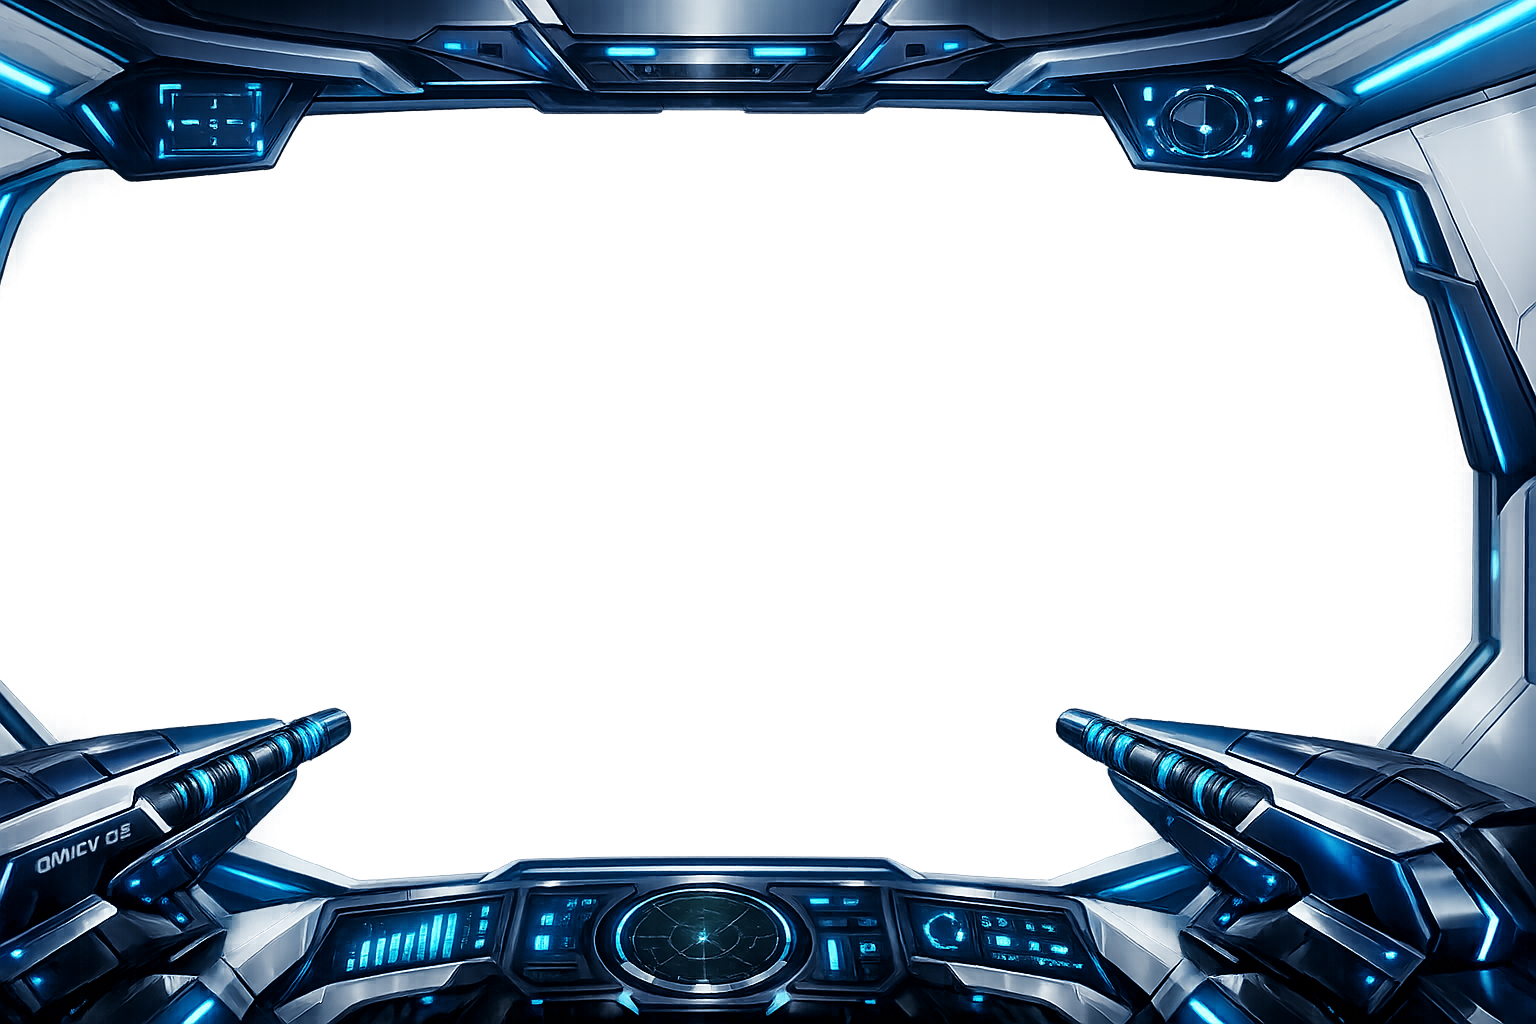
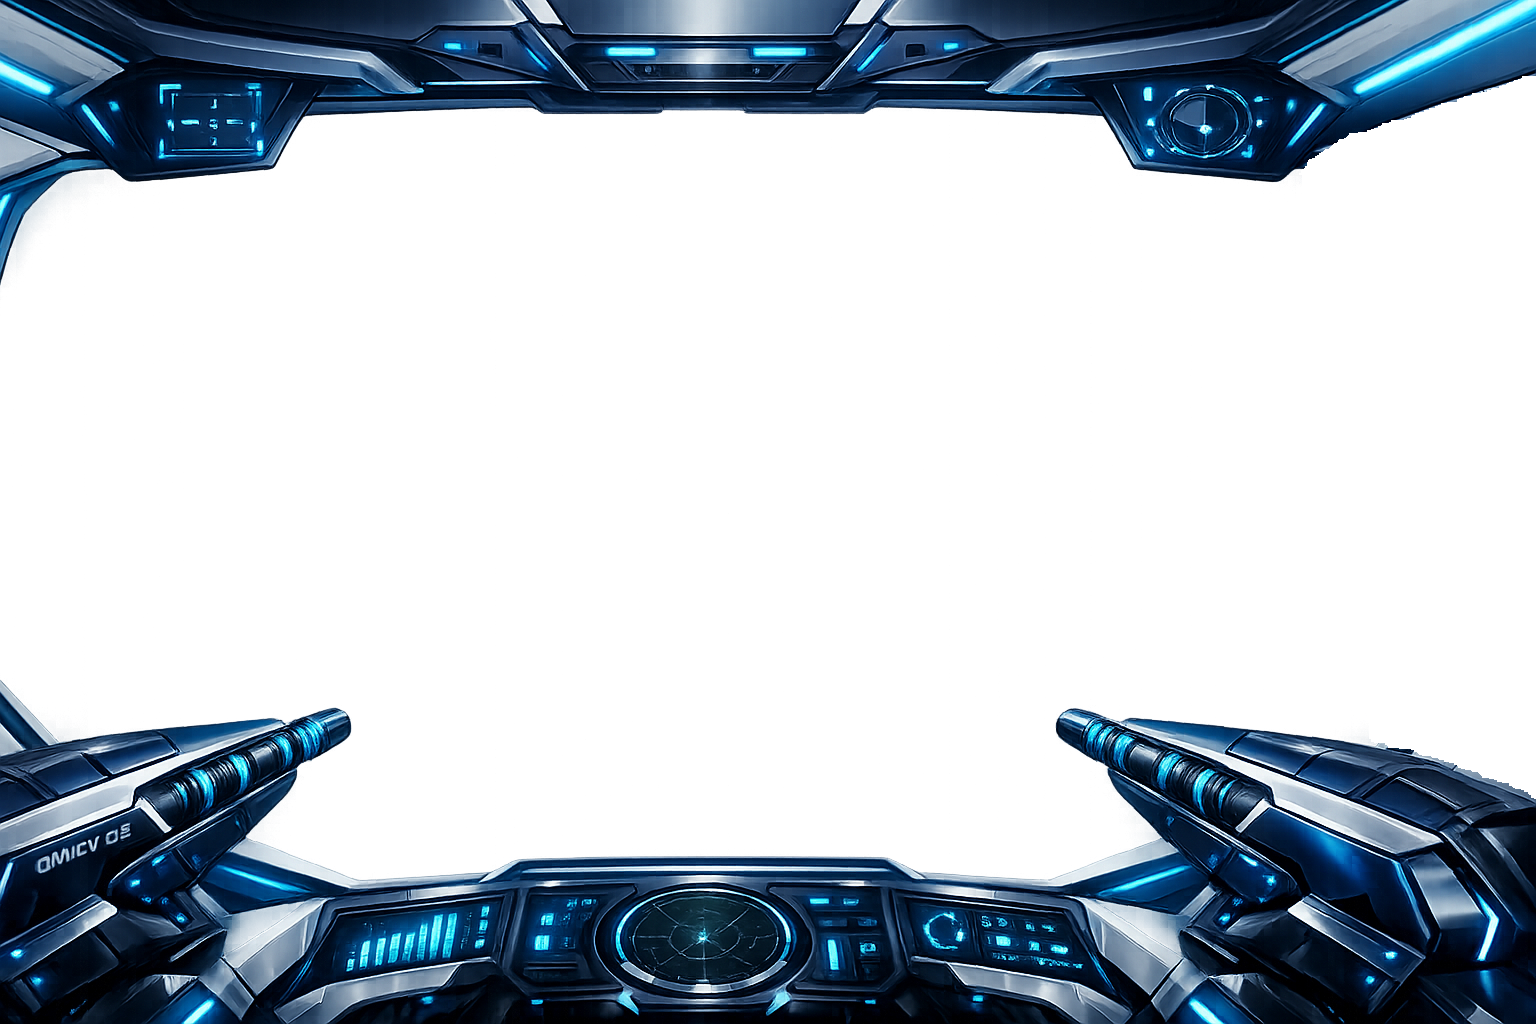
LSS
frames

Changed region(s): [[0.8438, 0.0625, 1.0, 0.7812]]

diff --git a/docs/LSS/last_ship_sailing.html b/docs/LSS/last_ship_sailing.html
@@ -6022,40 +6022,126 @@ function spawnImpactSparks(pos, count) {
 // (relative to this HTML file). Missing files fail silently: if the image 404s, the
 // overlay stays hidden so gameplay is never blocked on art assets shipping in.
 // Cached per-key so we only probe the network once per ship.
-const _cockpitFrameCache = {}; // key -> 'ok' or 'missing' or the loaded Image
+// ChatGPT-generated frames rarely put the painted barrel tips at the exact pixel
+// coordinates the procedural guns target, so on load we alpha-scan each half of
+// the image and detect where the painted barrels actually point. That detected
+// tip is then used as the muzzle-flash origin on the HUD canvas, so flash lines
+// up with the painted art even when the art drifts by a few percent.
+const _cockpitFrameCache = {}; // key -> { status: 'ok'|'missing', muzzle?: {...} }
+
+// Alpha-channel scan to find where the two painted gun-barrel tips point. For
+// each half of the image (left half, right half) we sweep rows top-to-bottom in
+// the lower 2/3 of the image looking for the first row where a noticeable opaque
+// band appears; that's the painted tip. We then sample the next ~16 rows below
+// and take the median x-center so we lock onto the barrel's long axis, not a
+// single-pixel tip-corner. Returns { imgW, imgH, left: {x,y}, right: {x,y} } in
+// image-native coords, or null if either tip can't be found cleanly.
+function detectFrameMuzzlePoints(img) {
+  try {
+    const iw = img.naturalWidth, ih = img.naturalHeight;
+    if (iw < 100 || ih < 100) return null;
+    const cv = document.createElement('canvas');
+    cv.width = iw; cv.height = ih;
+    const cx = cv.getContext('2d');
+    cx.drawImage(img, 0, 0);
+    const data = cx.getImageData(0, 0, iw, ih).data;
+    const MIN_RUN = Math.max(6, Math.floor(iw * 0.01)); // ignore specks smaller than ~1% wide
+    const findTipInHalf = (x0, x1) => {
+      const yStart = Math.floor(ih * 0.30);
+      const yEnd = Math.floor(ih * 0.98);
+      let tipY = -1;
+      for (let y = yStart; y <= yEnd; y++) {
+        let runStart = -1, runEnd = -1;
+        for (let x = x0; x < x1; x++) {
+          const a = data[(y * iw + x) * 4 + 3];
+          if (a > 40) {
+            if (runStart < 0) runStart = x;
+            runEnd = x;
+          }
+        }
+        if (runStart >= 0 && (runEnd - runStart) > MIN_RUN) {
+          tipY = y;
+          break;
+        }
+      }
+      if (tipY < 0) return null;
+      // Sample a band below the tip and median the horizontal centers.
+      const yOff = Math.min(Math.floor(ih * 0.015), yEnd - tipY);
+      const centers = [];
+      for (let y = tipY; y <= tipY + yOff; y++) {
+        let rS = -1, rE = -1;
+        for (let x = x0; x < x1; x++) {
+          const a = data[(y * iw + x) * 4 + 3];
+          if (a > 40) {
+            if (rS < 0) rS = x;
+            rE = x;
+          }
+        }
+        if (rS >= 0) centers.push((rS + rE) / 2);
+      }
+      if (centers.length === 0) return null;
+      centers.sort((a, b) => a - b);
+      const medX = centers[Math.floor(centers.length / 2)];
+      return { x: medX, y: tipY };
+    };
+    const halfW = Math.floor(iw / 2);
+    const left = findTipInHalf(0, halfW);
+    const right = findTipInHalf(halfW, iw);
+    if (!left || !right) return null;
+    return { imgW: iw, imgH: ih, left: left, right: right };
+  } catch (e) {
+    // CORS taint, decode failure, whatever: detection is best-effort.
+    return null;
+  }
+}
+
+// Translate an image-space (ix, iy) coord to screen coords assuming the PNG is
+// displayed at background-size: cover on a W x H container (image scaled up to
+// fully cover the element, aspect preserved, overflow cropped equally on both
+// sides of the over-sized axis).
+function frameImgToScreen(ix, iy, imgW, imgH, W, H) {
+  const scale = Math.max(W / imgW, H / imgH);
+  const sw = imgW * scale, sh = imgH * scale;
+  const ox = (sw - W) / 2, oy = (sh - H) / 2;
+  return { x: ix * scale - ox, y: iy * scale - oy };
+}
+
 function updateCockpitFrame() {
   const el = document.getElementById('cockpit-frame');
   if (!el) return;
   const key = (player && player.loadoutKey) || null;
-  if (!key) { el.classList.remove('active'); el.style.backgroundImage = ''; return; }
-  const url = './frames/' + key + '.png';
-  const cached = _cockpitFrameCache[key];
-  if (cached === 'missing') {
+  if (!key) {
     el.classList.remove('active');
     el.style.backgroundImage = '';
+    if (player) player.cockpitFrameMuzzle = null;
     return;
   }
-  if (cached === 'ok') {
+  const url = './frames/' + key + '.png';
+  const cached = _cockpitFrameCache[key];
+  const apply = (entry) => {
+    if (!entry || entry.status !== 'ok') {
+      el.classList.remove('active');
+      el.style.backgroundImage = '';
+      if (player) player.cockpitFrameMuzzle = null;
+      return;
+    }
     el.style.backgroundImage = 'url("' + url + '")';
     el.classList.add('active');
-    return;
-  }
+    if (player) player.cockpitFrameMuzzle = entry.muzzle || null;
+  };
+  if (cached) { apply(cached); return; }
   // First-time: probe with an Image() so a 404 doesn't splatter a broken-image flash.
   const probe = new Image();
   probe.onload = function() {
-    _cockpitFrameCache[key] = 'ok';
+    const muzzle = detectFrameMuzzlePoints(probe);
+    const entry = { status: 'ok', muzzle: muzzle };
+    _cockpitFrameCache[key] = entry;
     // Guard: player may have swapped ships while the probe was loading.
-    if (player && player.loadoutKey === key) {
-      el.style.backgroundImage = 'url("' + url + '")';
-      el.classList.add('active');
-    }
+    if (player && player.loadoutKey === key) apply(entry);
   };
   probe.onerror = function() {
-    _cockpitFrameCache[key] = 'missing';
-    if (player && player.loadoutKey === key) {
-      el.classList.remove('active');
-      el.style.backgroundImage = '';
-    }
+    _cockpitFrameCache[key] = { status: 'missing' };
+    if (player && player.loadoutKey === key) apply({ status: 'missing' });
   };
   probe.src = url;
 }
@@ -9317,7 +9403,7 @@ function drawCircumpunctHUD() {
     // Left gun: bottom-left corner -> up and inward
     // Right gun: bottom-right corner -> up and inward
     const baseY = H + 20 + recoilAmt + sway + ARM_DOWN_SHIFT; // bottom (pushed further off-screen)
-    const tipY = H - gunLen + recoilAmt + sway + ARM_DOWN_SHIFT; // top of gun (barrel end)
+    let tipY = H - gunLen + recoilAmt + sway + ARM_DOWN_SHIFT; // top of gun (barrel end)
 
     // Slide guns outward so ~2/3 of the base hangs off-screen (+ extra user offset)
     const gunSlide = gunBaseW * 0.66 + ARM_OUT_SHIFT;
@@ -9336,71 +9422,95 @@ function drawCircumpunctHUD() {
       tipInnerX = W - tipInset + gunSlide * 0.35;
     }
 
-    // Main gun body (trapezoid: wide at bottom corner, narrow at barrel tip)
-    ctx.fillStyle = 'rgba(55,62,78,0.92)';
-    ctx.beginPath();
-    ctx.moveTo(baseOuterX, baseY);
-    ctx.lineTo(baseInnerX, baseY);
-    ctx.lineTo(tipInnerX, tipY);
-    ctx.lineTo(tipOuterX, tipY);
-    ctx.closePath();
-    ctx.fill();
-
-    // Darker barrel core (inner strip running along the gun)
-    ctx.fillStyle = 'rgba(35,40,50,0.9)';
-    ctx.beginPath();
-    const bFrac = 0.3; // barrel is 30% of gun width
-    if (side === 0) {
-      const bBaseO = baseOuterX + (baseInnerX - baseOuterX) * 0.35;
-      const bBaseI = baseOuterX + (baseInnerX - baseOuterX) * 0.65;
-      const bTipO = tipOuterX + (tipInnerX - tipOuterX) * 0.25;
-      const bTipI = tipOuterX + (tipInnerX - tipOuterX) * 0.75;
-      ctx.moveTo(bBaseO, baseY); ctx.lineTo(bBaseI, baseY);
-      ctx.lineTo(bTipI, tipY); ctx.lineTo(bTipO, tipY);
-    } else {
-      const bBaseO = baseInnerX + (baseOuterX - baseInnerX) * 0.35;
-      const bBaseI = baseInnerX + (baseOuterX - baseInnerX) * 0.65;
-      const bTipO = tipInnerX + (tipOuterX - tipInnerX) * 0.25;
-      const bTipI = tipInnerX + (tipOuterX - tipInnerX) * 0.75;
-      ctx.moveTo(bBaseO, baseY); ctx.lineTo(bBaseI, baseY);
-      ctx.lineTo(bTipI, tipY); ctx.lineTo(bTipO, tipY);
-    }
-    ctx.closePath();
-    ctx.fill();
-
-    // Team-colored accent line (runs along inner edge of gun)
-    ctx.strokeStyle = gunAccentCol + '0.6)';
-    ctx.lineWidth = 2.5;
-    ctx.beginPath();
-    ctx.moveTo(baseInnerX, baseY);
-    ctx.lineTo(tipInnerX, tipY);
-    ctx.stroke();
-
-    // Outer edge highlight
-    ctx.strokeStyle = 'rgba(120,130,150,0.3)';
-    ctx.lineWidth = 1;
-    ctx.beginPath();
-    ctx.moveTo(baseOuterX, baseY);
-    ctx.lineTo(tipOuterX, tipY);
-    ctx.stroke();
-
-    // Panel seam lines (horizontal across the gun body)
-    ctx.strokeStyle = 'rgba(30,35,45,0.5)';
-    ctx.lineWidth = 1;
-    for (let i = 1; i <= 4; i++) {
-      const frac = i / 5;
-      const ly = baseY + (tipY - baseY) * frac;
-      const lxO = baseOuterX + (tipOuterX - baseOuterX) * frac;
-      const lxI = baseInnerX + (tipInnerX - baseInnerX) * frac;
-      ctx.beginPath(); ctx.moveTo(lxO, ly); ctx.lineTo(lxI, ly); ctx.stroke();
+    // If a titan cockpit frame PNG is loaded AND alpha-detection found the two
+    // painted barrel tips, override the procedural tip positions so the muzzle
+    // flash fires from where the frame's painted gun actually points. We skip
+    // drawing the procedural gun body/seams/dot in this case because the frame's
+    // painted art is what should be visible; only the flash remains on top.
+    const fm = player.cockpitFrameMuzzle;
+    const useFrame = !!(fm && fm.left && fm.right);
+    if (useFrame) {
+      const tip = side === 0 ? fm.left : fm.right;
+      const scr = frameImgToScreen(tip.x, tip.y, fm.imgW, fm.imgH, W, H);
+      // Apply recoil+sway (same feel as procedural gun) so flash still kicks.
+      const tipCX = scr.x;
+      const tipCY = scr.y + recoilAmt + sway;
+      // Half-width around the painted-barrel axis: give the muzzle a small
+      // extent so dirX/perpX compute a stable orientation and the flash has
+      // a believable footprint rather than collapsing to a point.
+      const halfW = Math.max(10, W * 0.012);
+      tipOuterX = tipCX - (side === 0 ? halfW : -halfW);
+      tipInnerX = tipCX + (side === 0 ? halfW : -halfW);
+      tipY = tipCY;
     }
 
-    // Power indicator dot (near barrel tip)
-    const dotFrac = 0.85;
-    const dotX = (baseOuterX + baseInnerX) / 2 + ((tipOuterX + tipInnerX) / 2 - (baseOuterX + baseInnerX) / 2) * dotFrac;
-    const dotY = baseY + (tipY - baseY) * dotFrac;
-    ctx.fillStyle = player.clipAmmo > 0 ? 'rgba(0,255,120,0.8)' : 'rgba(255,50,30,0.8)';
-    ctx.beginPath(); ctx.arc(dotX, dotY, 3.5, 0, Math.PI * 2); ctx.fill();
+    if (!useFrame) {
+      // Main gun body (trapezoid: wide at bottom corner, narrow at barrel tip)
+      ctx.fillStyle = 'rgba(55,62,78,0.92)';
+      ctx.beginPath();
+      ctx.moveTo(baseOuterX, baseY);
+      ctx.lineTo(baseInnerX, baseY);
+      ctx.lineTo(tipInnerX, tipY);
+      ctx.lineTo(tipOuterX, tipY);
+      ctx.closePath();
+      ctx.fill();
+
+      // Darker barrel core (inner strip running along the gun)
+      ctx.fillStyle = 'rgba(35,40,50,0.9)';
+      ctx.beginPath();
+      const bFrac = 0.3; // barrel is 30% of gun width
+      if (side === 0) {
+        const bBaseO = baseOuterX + (baseInnerX - baseOuterX) * 0.35;
+        const bBaseI = baseOuterX + (baseInnerX - baseOuterX) * 0.65;
+        const bTipO = tipOuterX + (tipInnerX - tipOuterX) * 0.25;
+        const bTipI = tipOuterX + (tipInnerX - tipOuterX) * 0.75;
+        ctx.moveTo(bBaseO, baseY); ctx.lineTo(bBaseI, baseY);
+        ctx.lineTo(bTipI, tipY); ctx.lineTo(bTipO, tipY);
+      } else {
+        const bBaseO = baseInnerX + (baseOuterX - baseInnerX) * 0.35;
+        const bBaseI = baseInnerX + (baseOuterX - baseInnerX) * 0.65;
+        const bTipO = tipInnerX + (tipOuterX - tipInnerX) * 0.25;
+        const bTipI = tipInnerX + (tipOuterX - tipInnerX) * 0.75;
+        ctx.moveTo(bBaseO, baseY); ctx.lineTo(bBaseI, baseY);
+        ctx.lineTo(bTipI, tipY); ctx.lineTo(bTipO, tipY);
+      }
+      ctx.closePath();
+      ctx.fill();
+
+      // Team-colored accent line (runs along inner edge of gun)
+      ctx.strokeStyle = gunAccentCol + '0.6)';
+      ctx.lineWidth = 2.5;
+      ctx.beginPath();
+      ctx.moveTo(baseInnerX, baseY);
+      ctx.lineTo(tipInnerX, tipY);
+      ctx.stroke();
+
+      // Outer edge highlight
+      ctx.strokeStyle = 'rgba(120,130,150,0.3)';
+      ctx.lineWidth = 1;
+      ctx.beginPath();
+      ctx.moveTo(baseOuterX, baseY);
+      ctx.lineTo(tipOuterX, tipY);
+      ctx.stroke();
+
+      // Panel seam lines (horizontal across the gun body)
+      ctx.strokeStyle = 'rgba(30,35,45,0.5)';
+      ctx.lineWidth = 1;
+      for (let i = 1; i <= 4; i++) {
+        const frac = i / 5;
+        const ly = baseY + (tipY - baseY) * frac;
+        const lxO = baseOuterX + (tipOuterX - baseOuterX) * frac;
+        const lxI = baseInnerX + (tipInnerX - baseInnerX) * frac;
+        ctx.beginPath(); ctx.moveTo(lxO, ly); ctx.lineTo(lxI, ly); ctx.stroke();
+      }
+
+      // Power indicator dot (near barrel tip)
+      const dotFrac = 0.85;
+      const dotX = (baseOuterX + baseInnerX) / 2 + ((tipOuterX + tipInnerX) / 2 - (baseOuterX + baseInnerX) / 2) * dotFrac;
+      const dotY = baseY + (tipY - baseY) * dotFrac;
+      ctx.fillStyle = player.clipAmmo > 0 ? 'rgba(0,255,120,0.8)' : 'rgba(255,50,30,0.8)';
+      ctx.beginPath(); ctx.arc(dotX, dotY, 3.5, 0, Math.PI * 2); ctx.fill();
+    }
 
     // ---- MUZZLE FLASH (at barrel tip) ----
     if (flashActive) {